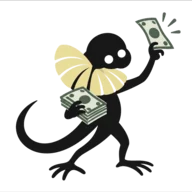
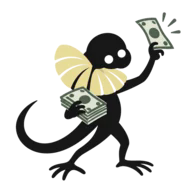
マスコット画像の横線を除去（ホーム精算カード・分析画面）
Claude-Session: https://claude.ai/code/session_01RPEPtEjtrE7ZZhATt4fS4z

Changed region(s): [[0.0, 0.0, 1.0, 0.0312]]

diff --git a/test/index.html b/test/index.html
@@ -102,7 +102,7 @@
           <h2 id="settlementAmount">—</h2>
           <div class="settlement-direction" id="settlementDirection">読み込み中…</div>
           <p id="settlementNote" class="settlement-note">データを読み込んでいます。</p>
-          <img class="content-mascot home-coin-mascot" src="../assets/mascot-home-money.webp?v=20260927-2" alt="" aria-hidden="true">
+          <img class="content-mascot home-coin-mascot" src="../assets/mascot-home-money.webp?v=20261003-NOLINE1" alt="" aria-hidden="true">
           <button class="white-button" type="button" data-open="breakdownDialog">内訳を見る</button>
         </article>
 
@@ -202,7 +202,7 @@
           <span id="analysisRangeLabel">読み込み中…</span>
           <strong id="analysisRangeTotal">—</strong>
           <small>表示期間の支出合計</small>
[2 lines of base64/hex data omitted]
         </article>
 
         <h3 class="section-title">月別の使い道</h3>

diff --git a/index.html b/index.html
@@ -101,7 +101,7 @@
           <h2 id="settlementAmount">—</h2>
           <div class="settlement-direction" id="settlementDirection">読み込み中…</div>
           <p id="settlementNote" class="settlement-note">データを読み込んでいます。</p>
-          <img class="content-mascot home-coin-mascot" src="./assets/mascot-home-money.webp?v=20260927-2" alt="" aria-hidden="true">
+          <img class="content-mascot home-coin-mascot" src="./assets/mascot-home-money.webp?v=20261003-NOLINE1" alt="" aria-hidden="true">
           <button class="white-button" type="button" data-open="breakdownDialog">内訳を見る</button>
         </article>
 
@@ -201,7 +201,7 @@
           <span id="analysisRangeLabel">読み込み中…</span>
           <strong id="analysisRangeTotal">—</strong>
           <small>表示期間の支出合計</small>
[2 lines of base64/hex data omitted]
         </article>
 
         <h3 class="section-title">月別の使い道</h3>

diff --git a/acceptance.md b/acceptance.md
@@ -77,3 +77,22 @@
 - 設定 > 費目 で全費目に絵文字入力欄と費目名入力欄が表示されることを確認。
 - テスト環境で食費の絵文字を 🛒 → 🍚 に変更して保存し、明細のスーパーとホームのスーパーの両方が 🍚 に更新されることを確認。
 - テスト環境はダミーデータのみを使い、本番DBは変更していない。
+
+
+## 2026-10-03 マスコット画像の横線除去
+
+受け入れ基準：
+
+- ホームの精算見込みカードのマスコット画像（mascot-home-money.webp）の上下に横線が表示されない。
+- 分析画面のマスコット画像（index.html 埋め込み）の下に横線が表示されない。
+- マスコット本体は欠けず、表示位置・大きさは変わらない。
+- 本番 index.html とテスト test/index.html の両方に反映する。
+- 画像URLのキャッシュバージョンを更新し、公開GitHub Pagesで新しい画像が配信されている。
+
+
+### 検証記録
+
+- 原因は画像自体の端1行（ホーム用は1行目と最終行、分析用は最終行）に入った全幅の線。その行だけ透明にし、ロスレスWebPで再保存。
+- 修正前後の画像で、端の行以外のピクセルが完全一致することを確認。
+- テスト環境（iPhone幅 390px）で修正前後を比較し、線が消えたこと、表示位置・大きさ（ホーム80×80 / 分析112×112）が同じことを確認。
+- 明細・立替金/返済・設定画面は修正前後のスクリーンショットが完全一致。JSエラーなし、横スクロールなし。
